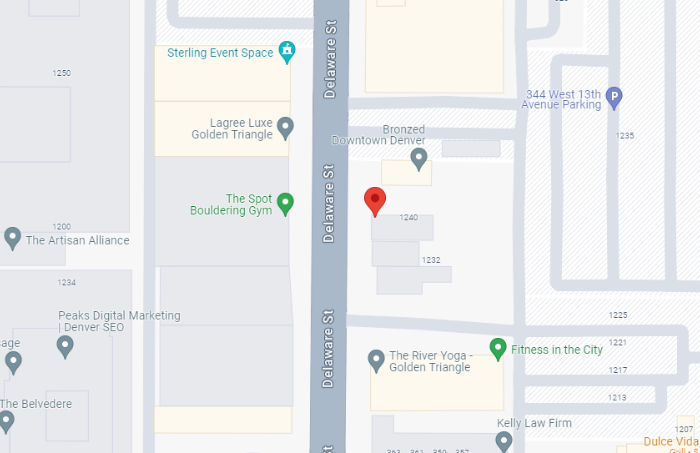
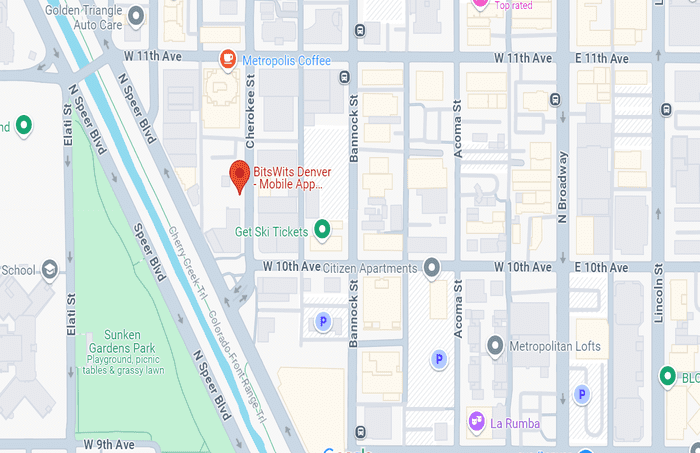
change content in mobile-app-development-compny-denver

diff --git a/src/app/mobile-app-development-company-denver/page.js b/src/app/mobile-app-development-company-denver/page.js
@@ -40,7 +40,7 @@ export default function dubaidevelopmentcompany() {
   // Banner Content
   const Banner = {
     title: "Denver Mobile App Development Company",
-    desc: "Our team of app developers in Denver bring a wealth of expertise and experience having successfully delivered 150+ projects. Throughout the development, our app developers Denver collaborate closely with you to ensure that every detail of the app reflects your vision. Opting for BitsWits translates to teaming up with individuals who are dedicated to providing top-notch quality.",
+    desc: "Our team of app developers in Denver brings a wealth of expertise and experience, having successfully delivered over 150 projects. This commitment is what makes us a trusted app development company in Denver, consistently creating apps that align with our clients’ visions and exceed their expectations. Opting for BitsWits means teaming up with professionals dedicated to delivering top-notch quality.",
     bg: HeroBg
   }
   // award Content
@@ -66,7 +66,7 @@ export default function dubaidevelopmentcompany() {
     },
     {
       question: 'Flutter App Development in Denver',
-      answer: "With BitsWits Flutter app development Denver services, you can tap into the power of cross-platform app development. Our app developers Denver are experts in creating apps for iOS and Android with only one codebase. Using this strong architecture, we create beautiful applications that offer a uniform user experience on all devices, saving you money on resources while increasing the visibility and impact of your app.",
+      answer: "With BitsWits Flutter app development services in Denver, you can tap into the power of cross-platform app development. Our app developers Denver are experts in creating apps for iOS and Android with only one codebase. Using this strong architecture, we create beautiful applications that offer a uniform user experience on all devices, saving you money on resources while increasing the visibility and impact of your app.",
       btn: "Let’s Build Your Flutter App!",
       StoryLineImg: StoryLine4
     },
@@ -180,7 +180,7 @@ export default function dubaidevelopmentcompany() {
   ];
   // Global Conten
   const global = {
-    address: " ",
+    address: "1035 Cherokee St, Denver, CO 80204, United States",
     number: "(302) 216-8231",
     href: "tel:+3022168231",
     image: MapImage,
@@ -211,7 +211,7 @@ export default function dubaidevelopmentcompany() {
             },
             {
               title: 'Internet of Things (IoT)',
-              description: "Our Denver app development team creates user-friendly apps that run across several platforms, making it simple for you to monitor and control all of your connected devices. It's similar to having a real-time pulse on your entire company!",
+              description: "Our app development team in Denver creates user-friendly apps that run across several platforms, making it simple for you to monitor and control all of your connected devices. It's similar to having a real-time pulse on your entire company!",
               imageSrc: banImg3,
             },
             {
